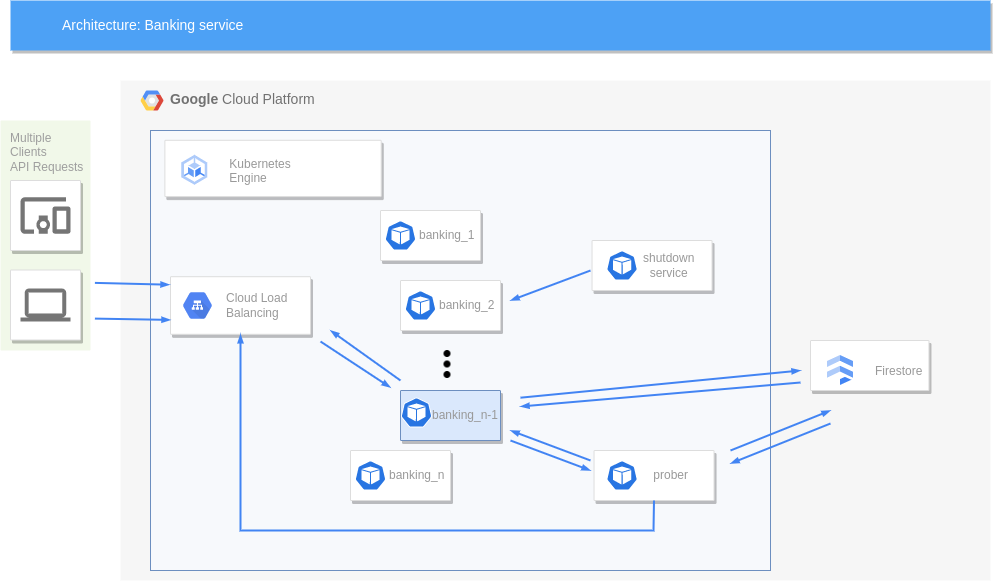
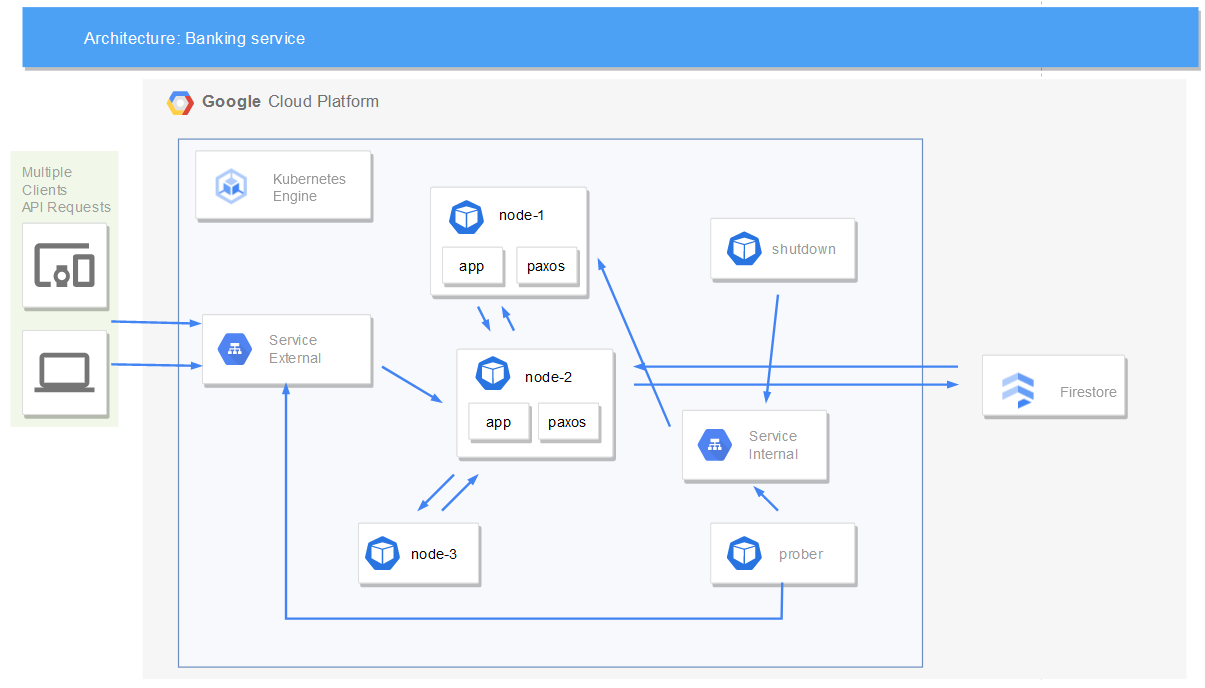
Update README.

Changed region(s): [[0.0, 0.2169, 0.9366, 0.9294], [0.0, 0.0, 1.0, 0.3718], [0.1561, 0.9604, 0.7805, 0.9914]]

diff --git a/README.md b/README.md
@@ -21,17 +21,20 @@ We used the well-established HTTP protocol for communication between our microse
 ## System architecture
 
 ![Architecture](./images/architecture.png)
-[TODO] update obrazka i opisu poniżej
 
-In our system, clients communicate with the service by accessing the Kubernetes load balancer and its external IP.
+The main part of our system is composed of nodes which correspond to Kubernetes pods. Each node is composed of two containers: app and paxos. The first is responsible for the core functionality and the second for coordination using Paxos.
 
-If running with leader, the load balancer is configured to forward traffic to the elected leader node, while the other containers serve only as Paxos nodes. When a request is received, the leader container (shown in blue in the above diagram) sends the appropriate request to the Firestore database and then responds to the client. The excellent transaction system in Firestore allows it to handle multiple parallel requests effectively.
+Clients communicate with the nodes by the means of an externally accessible Kubernetes load balancer with its external IP. When running in a leader mode, the load balancer is configured to forward traffic to the elected leader node, while the other containers serve only as Paxos nodes. When running in a leaderless mode, the traffic is distributed to all the nodes.
 
-Otherwise the load balancer forwards traffic to every node. 
+When a request is received, if the node is a leader, it sends the appropriate request to the Firestore database and then responds to the client. If we are running in a leaderless mode, then the node starts a Paxos round to guarantee coordination with other nodes. When the request is accepted by the other Nodes, it is then communicated to the Firestore database as previously.
 
-A prober microservice is scheduled to periodically check the service's functionality by updating its own banking account by 1. If the request fails, it initiates a new leader election process and updates the load balancer to forward traffic to the new leader.
+When running with a leader, there is only one Firebase database collection with which only the leader communicates. When running without a leader, there is a separate collection for each of the nodes, which is kept in sync between them using Paxos.
 
-To access the services, the containers use a key generated for the GCP service account with access to the database. The key is stored as a secret in Kubernetes and is mounted when the pod is started. In our solution, we also used a Kubernetes service account to give the prober pod access to change the load balancer target.
+A prober microservice is scheduled to periodically check the service's functionality by updating its own banking account by 1. If the request fails and we are running with a leader, it uses the internal service to communicate with a live node and initiate a new leader election process and updates the external load balancer to forward traffic to the new leader.
+
+A shutdown microservice periodically shutdowns a random node with which it communicates using the internal service.
+
+To establish access, the containers use a key generated for the GCP service account with access to the database. The key is stored as a secret in Kubernetes and is mounted when the pod is started. In our solution, we also used a Kubernetes service account to give the prober pod access to change the load balancer target.
 
 ## Functionalities
 The banking node pods provide a number of endpoints to serve banking transactions:
@@ -143,12 +146,21 @@ kubectl
 python (venv, pip)
 
 ### Steps
+First initialize and build:
 ```bash
 gcloud auth login 
 ./infra-init.sh <OPTIONAL project_id>
 ./infra-build.sh
+```
+Then run with a leader:
+```bash
 ./infra-run.sh
 ```
+or without:
+```bash
+./infra-run.sh False
+```
+It is also possible to change the number of nodes.
 
 ### Teardown
 ```bash
@@ -156,10 +168,3 @@ gcloud container clusters delete banking-cluster --region europe-central2
 gcloud artifacts repositories delete banking-repo --project=<PROJECT_ID> --location europe-central2
 ```
 Manually delete firestore "account" collections.
-
-
-## Testing and performance
-[TODO]
-
-
-
